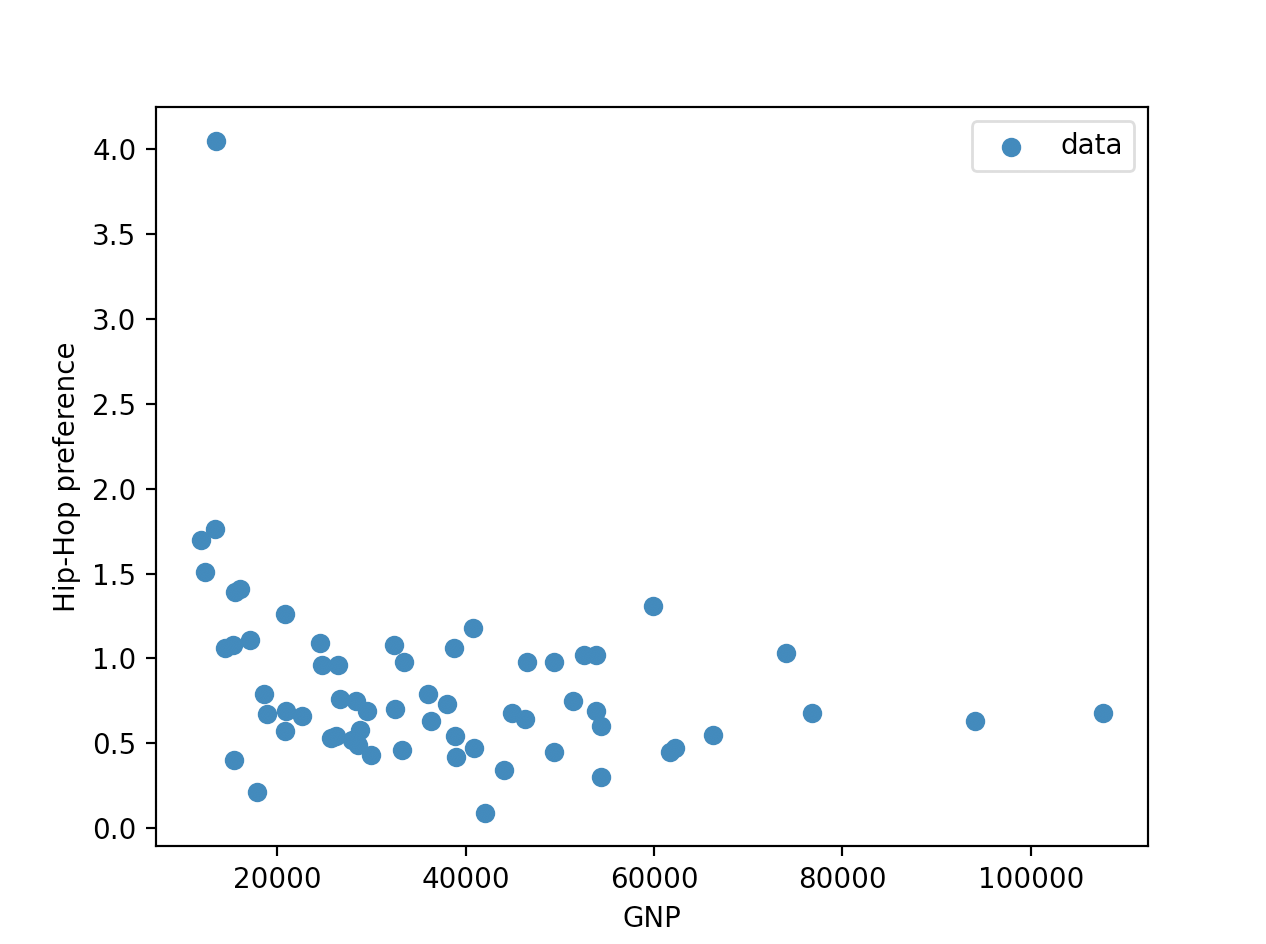
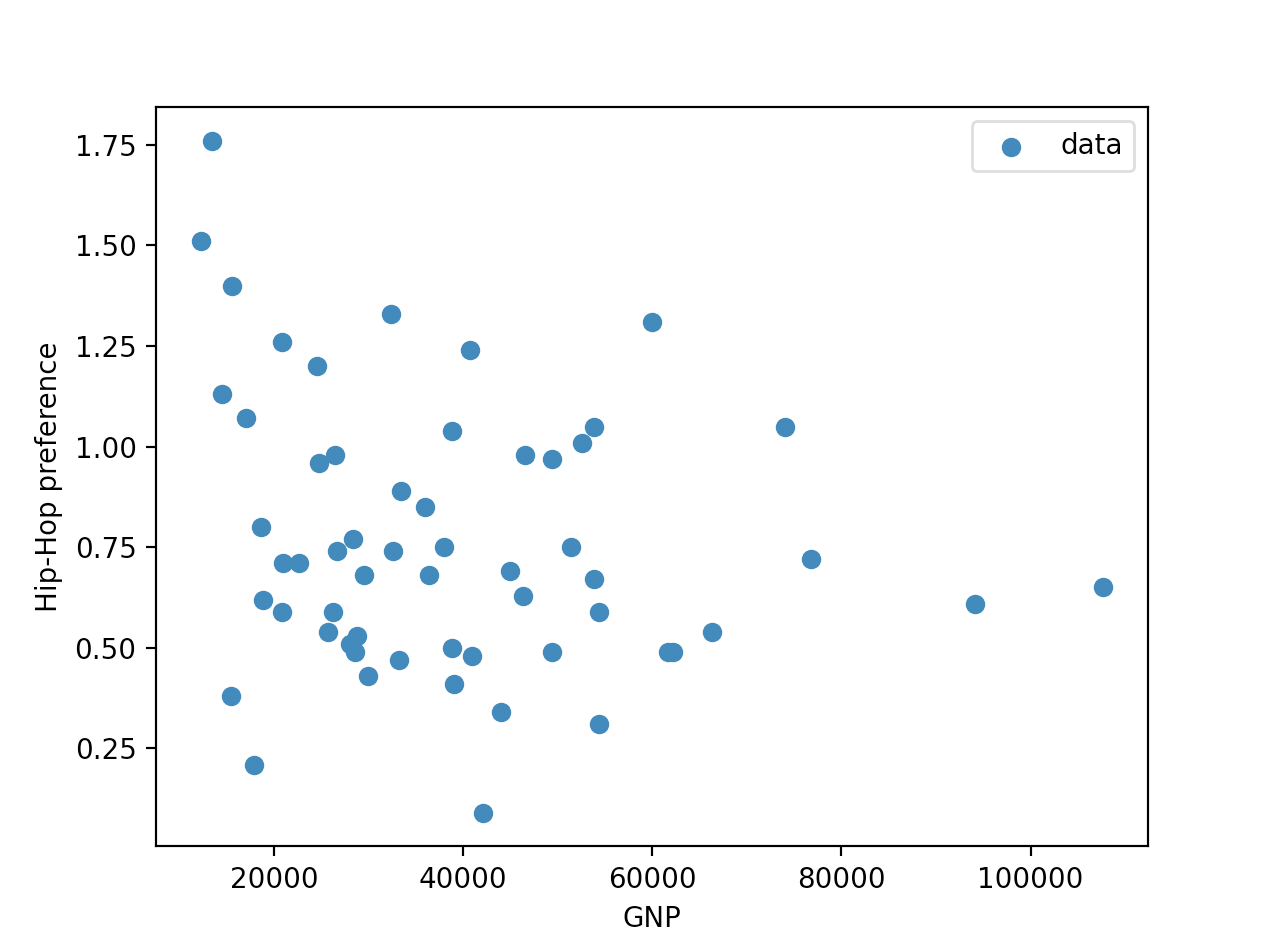
Catch outliers

diff --git a/google_trend.py b/google_trend.py
@@ -23,9 +23,10 @@ def main():
 
     # remove outliers and export as csv
     filtered_dict = {key: value for key, value in preference_dict.items() if value is not None}
-    sanitized_dict = {key: value  for key, value in gnp_dict.items() if key in filtered_dict.keys()}
-    export_as_csv('preference.csv', filtered_dict)
-    export_as_csv('gnp.csv', sanitized_dict)
+    sanitized_preference_dict = catch_outlier(filtered_dict)
+    sanitized_gnp_dict = {key: value  for key, value in gnp_dict.items() if key in sanitized_preference_dict.keys()}
+    export_as_csv('preference.csv', sanitized_preference_dict)
+    export_as_csv('gnp.csv', sanitized_gnp_dict)
 
 def fetch_trend_results(pytrends, keywords: list, iso_code: str, start_date: str, end_date: str):
     """
@@ -69,5 +70,15 @@ def get_preference_score(iso_code: str) -> float or int or None:
                 return None
     preference_score = round(aggregate / count, 2)
     return preference_score
+
+def catch_outlier(dic: dict) -> dict:
+    """
+    Except outlier has score which is treble compare with average
+    """
+    values = dic.values()
+    average = sum(values) / len(values)
+    print(average)
+    filtered_dic = {key: value for key, value in dic.items() if value < average * 3}
+    return filtered_dic
 
 main()

diff --git a/visualize.py b/visualize.py
@@ -4,7 +4,7 @@ import matplotlib.pylab as plt
 import csv
 from utils import load_data_as_dict
 
-def visualize():
+def visualize() -> None:
     gnp_dict = load_data_as_dict('gnp.csv')
     preference_dict = load_data_as_dict('preference.csv')
 
@@ -29,7 +29,7 @@ def visualize():
     else:
         print('data consistency was away')
 
-def print_pearson_corr_result(body):
+def print_pearson_corr_result(body) -> None:
     """
                             GNP  Hip-Hop preference
     GNP                 1.000000           -0.283328
